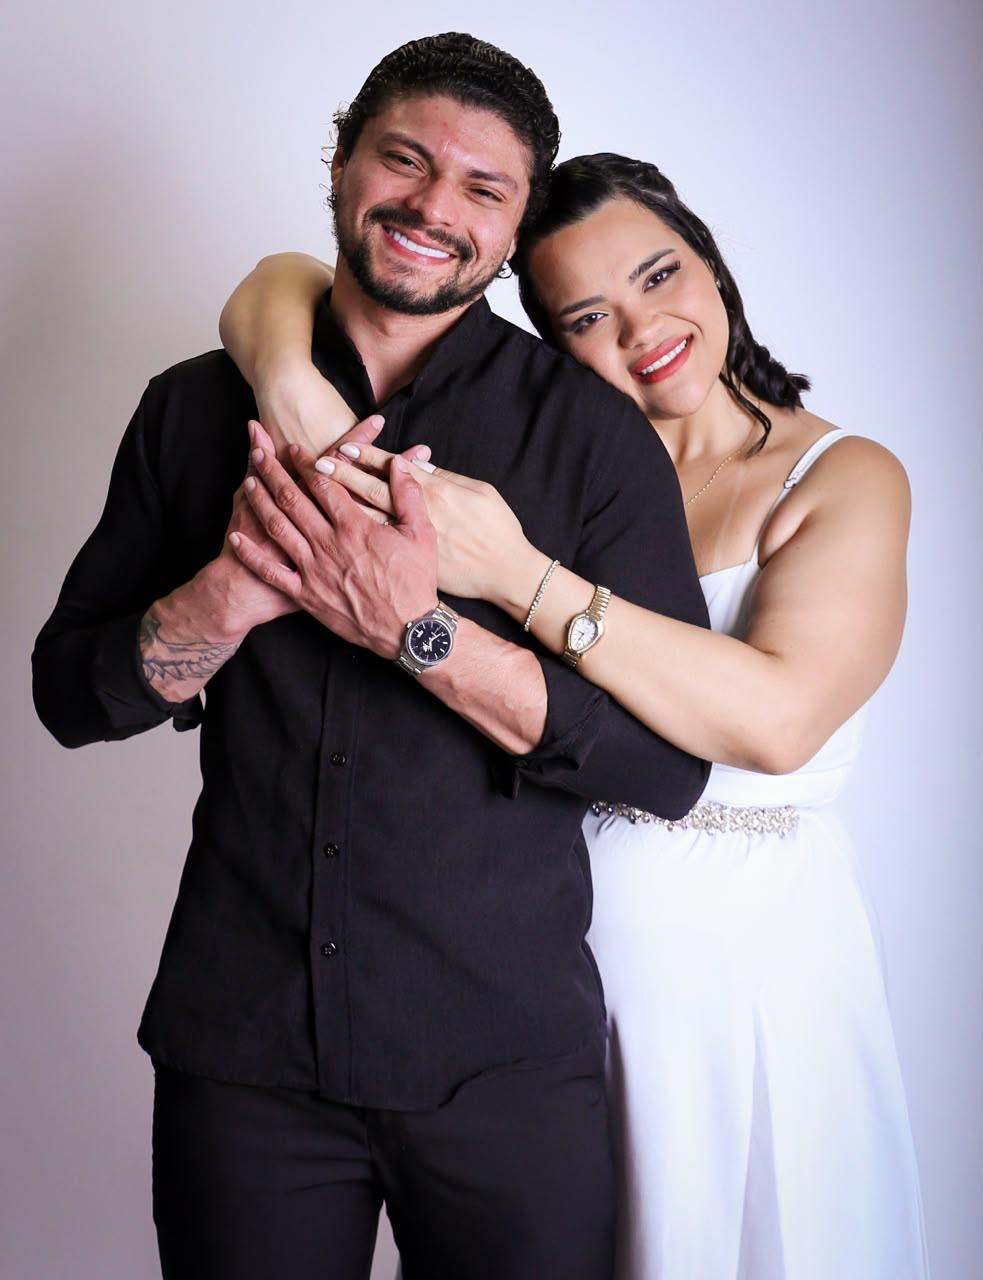
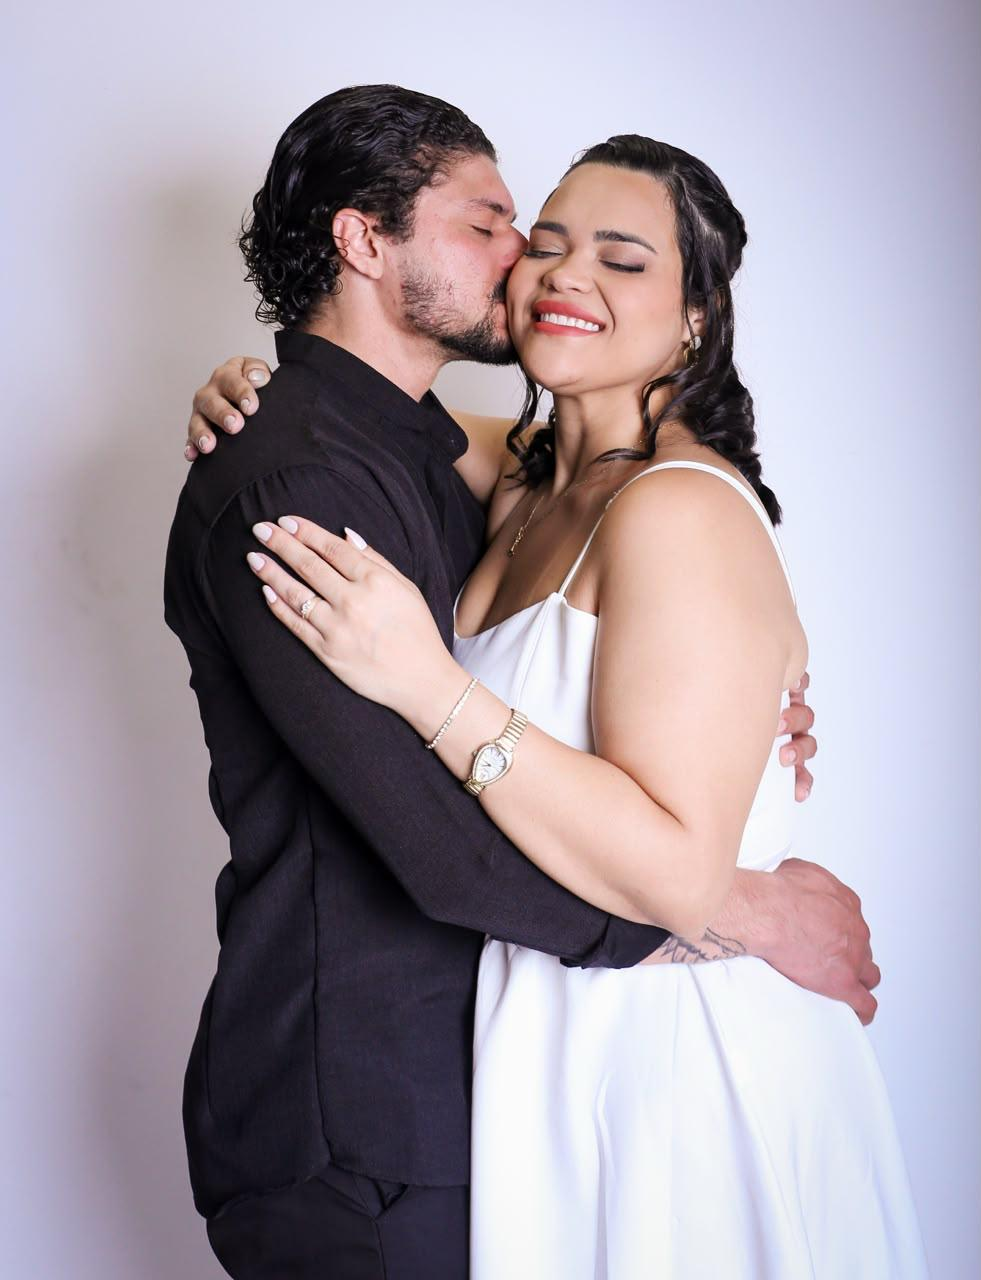
Atualiza foto do casal (nova imagem) e forca recarregamento (cache-busting)
- Traz a nova casal.jpg enviada na branch pensive-carson para esta branch
- Adiciona ?v=2 nas referencias da foto (capa e hero) para o navegador
  baixar a imagem nova em vez de usar a versao antiga em cache

Claude-Session: https://claude.ai/code/session_011irBsHrTGeBQ7bKxtsDRGz

diff --git a/index.html b/index.html
@@ -401,7 +401,7 @@ footer { text-align: center; padding: 44px 24px; border-top: 1.5px solid var(--l
 <div id="splash" onclick="openInvite()">
   <div class="splash-card">
     <div class="crest-photo">
-      <img src="casal.jpg" alt="João Ykaro e Ana Kel Ingre">
+      <img src="casal.jpg?v=2" alt="João Ykaro e Ana Kel Ingre">
     </div>
     <div class="splash-eyebrow">Vamos nos casar</div>
     <div class="splash-names">
@@ -432,7 +432,7 @@ footer { text-align: center; padding: 44px 24px; border-top: 1.5px solid var(--l
       <img class="hero-monogram" src="monograma.jpg" alt="Monograma João Ykaro e Ana Kel Ingre">
       <div class="hero-eyebrow">Com a bênção de Deus</div>
       <div class="hero-photo">
-        <img src="casal.jpg" alt="João Ykaro e Ana Kel Ingre">
+        <img src="casal.jpg?v=2" alt="João Ykaro e Ana Kel Ingre">
       </div>
       <div class="hero-verse-label">1 Coríntios 13:2</div>
       <p class="hero-verse">"E ainda que tivesse o dom de profecia, e conhecesse todos os mistérios e toda a ciência, e ainda que tivesse toda a fé, de maneira tal que transportasse os montes, e não tivesse amor, nada seria."</p>
